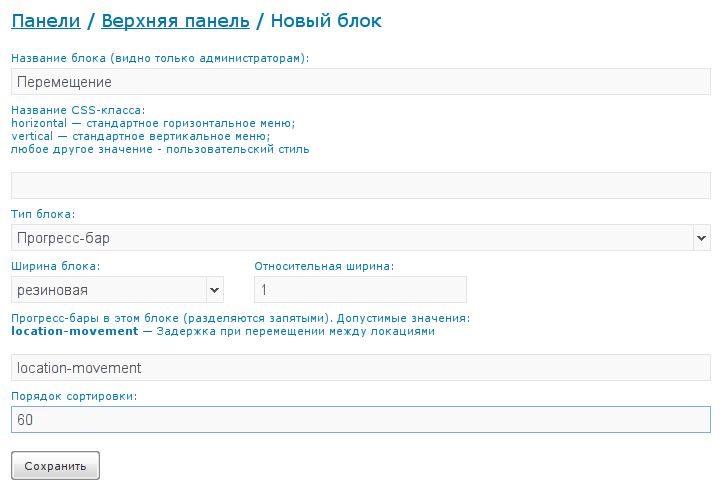
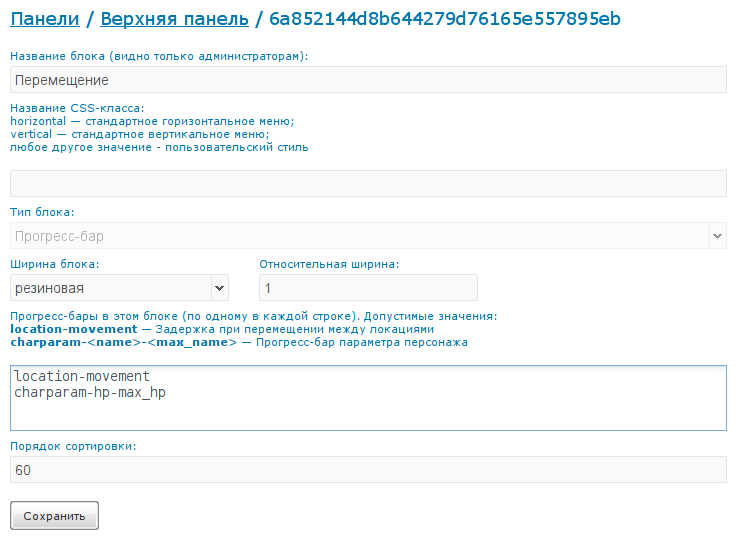
Documentation

diff --git a/mg/templates/constructor/docs/ru/dynamic.html b/mg/templates/constructor/docs/ru/dynamic.html
@@ -1,0 +1,118 @@
+<!-- doc.title Параметры, изменяющиеся со временем -->
+<!-- doc.parent parameters -->
+<!-- doc.keywords параметры персонажа, параметры в онлайн-игре, изменяюжиеся со временем -->
+<!-- doc.description Статья об устройве параметров объектов, изменяющихся со временем, в конструкторе онлайн-игр MMO Constructor -->
+
+<h1>Параметры, изменяющиеся со временем</h1>
+
+<p>Зачастую у администратора игры возникает необходимость задать значение параметра, которое не статично, а изменяется с течением времени. Например, это может быть восстановление жизни персонажа, уменьшение запаса дыхательной смеси под водой, траектория движения предмета и т.д.</p>
+
+<p>Значение такого параметра меняется очень часто, и если при каждом изменении сохранять его в базу данных, то база будет сильно перегружена. Если при каждом изменении передавать его по сети пользователям в клиенты, то сильно перегружена будет сеть.</p>
+
+<p>Решение проблемы заключается в том, что администратор игры задаёт значение параметра в виде функции от времени t. И именно в виде функции это значение сохраняется в базе данных и пересылается клиентам. Такой подход позволяет вычислить точное значение параметра в любой момент времени без дорогостоящих обращений к дискам и сети.</p>
+
+<p>Для того, чтобы было возможно вычислять взаимно согласованные значения как на сервере, так и на клиенте, они должны иметь <a href="/time">синхронизированные счётчики времени</a>.</p>
+
+<h1>Задание значений параметрам</h1>
+
+<p>Для того, чтобы <a href="/doc/parameters">параметр объекта</a> (персонажа, локации, предмета) начал изменяться со временем, необходимо либо задать его значение через административный интерфейс (где это уместно), либо воспользоваться одной из двух функций <a href="/doc/quest">квестового MMOScript</a> &mdash; "set dynamic" или "slide", либо вручную задать значения в клиенте.</p>
+
+<ul>
+    <li>Динамические координаты <a href="/doc/location-objects">объектов на локациях</a> могут задаваться либо через административный интерфейс, либо чеоез JavaScript API на клиенте;</li>
+    <li><a href="/doc/parameters">параметры персонажей, локаций и типов предметов</a> могут задаваться либо через административный интерфейс, либо через квестовый движок;</li>
+    <li><a href="/doc/design/progress">прогресс-бары</a> автоматически подгружают динамические значения из соответствующих параметров персонажа;</li>
+    <li><a href="#">динамические блоки</a> также автоматически используют динамические параметры персонажа.</li>
+</ul>
+
+<h1>Поддержка параметров, изменяющихся со временем, в движке квестов и триггеров</h1>
+
+<p>Инструкция "slide" квестового движка предоставляет простой способ задать плавное изменение параметра от одного значения до другого:</p>
+<pre class="doc-code-sample">
+slide <strong>объект</strong>.<strong>параметр</strong> [from=<strong>выражение</strong>] to=<strong>выражение</strong> time=<strong>выражение</strong> [round=<strong>выражение</strong>]
+</pre>
+<p>Эта команда задаёт динамическое значение параметру, который будет в течение time секунд плавно линейно изменяться от значения from до значения to. Если значение from не задано, то в качестве начального значения будет взято текущее значение параметра.</p>
+<p>Если аргумент round не задан, то значение будет изменяться плавно. Если задан, то каждое мгновенное значение будет округляться до кратного round. Например, если задать round=1, то значения параметра будут изменяться ступеньками по целым числам.</p>
+<p>Например, чтобы запустить восстановление жизни персонажа по 3 единицы в секунду ступеньками по 0.1 HP:</p>
+<pre class="doc-code-sample">
+slide char.p_hp from=char.p_hp to=char.p_max_hp time=(char.p_max_hp - char.p_hp) / 3 round=0.1
+</pre>
+
+<p>Более гибкий доступ к заданию параметра, изменяющегося со временем, предоставляет инструкция "set dynamic":</p>
+<pre class="doc-code-sample">
+set dynamic <strong>объект</strong>.<strong>параметр</strong> = <strong>выражение</strong> [till=<strong>выражение</strong>]
+</pre>
+<p>Выражение в этом случае должно содержать переменную t, которая представляет собой счётчик времени, засинхронизированный между клиентом и сервером. Подробная информация о параметрах, изменяющихся со временем, приведена в <a href="/dynamic">одноименном разделе</a>.</p>
+<p>Технически в момент выполнения этой операции происходит <a href="/doc/script#conversions">частичное вычисление</a> значения выражения.</p>
+<p>Чтобы использовать в выражении значение счётчика времени на момент выполнения этой команды, используйте переменную T (большое).</p>
+<p>Пример:</p>
+<pre class="doc-code-sample">
+set dynamic char.p_xp = 10 + sin(t - T) * 5
+</pre>
+<p>У команды есть необязательный аргумент till. Если он не задан, то динамическое значение параметра будет работать неограниченно долго. Если его задать, то выражение остановится на указанном моменте времени. То есть, если t &gt; till, то при вычислении значения выражения вместо t будет подставляться till.</p>
+
+<h1>Поддержка параметров, изменяющихся со временем, на стороне JavaScript-клиента</h1>
+
+<p>Все параметры персонажа, которым управляет игрок, которые ему видимы, и которые сохраняются в базе данных, доставляются в клиент. Этот процесс описан в разделе "<a href="/character-delivery">Доставка параметров персонажей в клиент</a>". Вычисляемые параметры в клиент не доставляются и в браузере недоступны.</p>
+
+<p>В клиент доставляются как статические значения параметров, так и изменяемые со временем. Если вы хотите отображать значения параметров в клиенте, то имеет смысл подписаться на событие "параметры изменились" и получать уведомления обо всех изменившихся значениях. Если параметр динамический, то событие будет срабатывать многократно, доставляя актуальные значения в обработчик.</p>
+
+<p>Для того, чтобы обрабатывать события, подключите свой обработчик на JavaScript:</p>
+<pre class="doc-code-sample">
+Characters.onParamChange = function (changes) {
+    if (changes.hasOwnProperty('hp') || changes.hasOwnProperty('max_hp')) {
+        var hp = Characters.myParam('hp');
+        var max_hp = Characters.myParam('max_hp');
+        // здесь можно обновить на экране текущие значения hp и max_hp.
+    }
+};
+</pre>
+
+<p>Функция-обработчик получает в качестве параметра объект "changes", каждое поле которого &mdash; это код параметра и его значение. Кроме того, в любой момент можно обратиться к функции Characters.myParam(), передав ей код параметра. Она возвращает его текущее мгновенное значение.</p>
+
+<p>Устанавливать код обработчика удобно через интерфейс настройки <a href="/doc/design/gameinterface#javascript">произвольных скриптов</a> игрового интерфейса.</p>
+
+<a name="DynamicValue"></a>
+<h1>Класс DynamicValue</h1>
+
+<p>JavaScript API предоставляет удобный класс для хранения значения параметра (как статического, так и динамического). Это класс DynamicValue. Чтобы создать экземпляр, необходимо передать конструктору либо статическое значение, либо формулу для значения, изменяемого с течением времени:</p>
+<pre class="doc-code-sample">
+var st = DynamicValue(123);
+var dyn = DynamicValue(['+', 2, ['func', 'call', 'sin', ['glob', 't']]]); // 2 + sin(t)
+</pre>
+
+<p>Если значение должно изменяться не вечно, а до какого-то фиксированного момента времени, то необходимо вызвать метод setTill и задать момент времени, когда надо остановиться. Например, через 5 секунд:</p>
+<pre class="doc-code-sample">
+dyn.setTill(TimeSync.getTime() + 5);
+</pre>
+
+<p>После того, как объект создан, можно в любой момент получить его значение на указанный момент времени:</p>
+<pre class="doc-code-sample">
+var stVal = st.evaluate(t);
+var dynVal = dyn.evaluate(t);
+</pre>
+
+<p>Если у динамического значения задано время окончания действия, то по прошествии этого времени хранить формулу и вычислять её каждый раз необходимости нет. Можно её "забыть" и считать это значение статическим. Необходимость такого метода вызвана тем, что как только значение стало статическим, можно перестать его регулярно вычислять, например, для обновления чего-либо на экране. Чтобы попросить DynamicValue забыть формулу, если после момента t она уже не действует, необходимо вызвать метод forget:</p>
+<pre class="doc-code-sample">
+dyn.forget(t);
+</pre>
+
+<p>Либо можно совместить получение значения на момент времени t и забывание формулы, если её действие кончилось раньше этого t:</p>
+<pre class="doc-code-sample">
+var dynVal = dyn.evaluateAndForget(t);
+</pre>
+
+<a name="blocks"></a>
+<h1>Динамические блоки интерфейса</h1>
+
+<p>Система имеет возможность автоматически обновлять содержимое DOM-элементов в игровом интерфейсе при изменении параметров персонажа, доставляемых в клиент. Для этого предназначен механизм динамических блоков. Его настройки осуществляются через меню "Интерфейс игры / Динамические блоки":</p>
+
+<img class="doc-screenshot" src="/st/tutorial/dynblocks-1.png" alt="" />
+
+<p>При нажатии на ссылки "Новый динамический блок" или "редактировать" открывается диалог редактирования параметров динамического блока:</p>
+
+<img class="doc-screenshot" src="/st/tutorial/dynblocks-2.png" alt="" />
+
+<ul>
+    <li>CSS-селектор &mdash; это CSS-selector, который определяет элементы, в которые необходимо записать контент. Если таких элементов окажется несколько, то обновлены будут все. Поддерживаются селекторы, начинающиеся с точки (имена классов) и с решётки (идентификаторы элементов);</li>
+    <li>Содержимое блока &mdash; это текстовое выражение MMOScript, которое вычисляется на стороне клиента. Ему доступен объект "char", представляющий текущего персонажа. У персонажа доступны не все поля, а только id (идентификатор персонажа), name (его имя) и параметры p_..., которые доставляются в клиент (т.е. только параметры, хранимые в базе данных, видимые владельцу).</li>
+</ul>

diff --git a/mg/templates/constructor/docs/ru/location-objects.html b/mg/templates/constructor/docs/ru/location-objects.html
@@ -1,0 +1,92 @@
+<!-- doc.title Объекты на локациях -->
+<!-- doc.parent locations -->
+<!-- doc.keywords локации, объекты, онлайн-игры -->
+<!-- doc.description Описание подсистемы объектов на локациях в конструкторе онлайн-игр -->
+
+<h1>Объекты на локациях</h1>
+
+<p>Зачастую для отображения локации одной статической картинки недостаточно. Администратору может понадобиться показывать поверх локации какие-либо дополнительные картинки-объекты. Объекты должны быть кликабельными, они должны иметь возможность показываться или не показываться. Может потребоваться изменять их местоположение на экране.</p>
+
+<p>Для реализации этих возможностей предназначен <a href="/doc/modules">системный модуль</a> "Статические объекты на локациях". После его включения в настройках локаций появится дополнительный способ визуализации: "HTML5 Canvas": <img class="doc-screenshot" src="/st/tutorial/location-objects-1.png" alt="" /></p>
+
+<h1>Настройка статических объектов</h1>
+
+<p>При выборе для локации типа визуализации "Статические объекты на локациях" в настройках локации появится новая вкладка &mdash; Объекты: <img class="doc-screenshot" src="/st/tutorial/location-objects-2.png" alt="" /></p>
+
+<p>При помощи кнопок "Загрузить изображение" и "Добавить изображение из хранилища" можно создавать новые объекты и помещать их на локацию. Объекты можно перетаскивать при помощи мыши. При двойном щелчке на объекте он отправляется на задний план. У выделенного объекта можно при помощи мыши перетаскивать вершины активной зоны (на которой будут восприниматься нажатия мыши и при наведении на которую будут показываться всплывающие подсказки). Чтобы добавить новую вершину, необходимо щёлкнуть на ребре многоугольника. Чтобы удалить вершину, необходимо выделить её мышью, а затем нажать кнопку Delete. Объекты также удаляются при помощи кнопки Delete.</p>
+
+<p>При выборе объекта внизу раскрывается панель с его настройками: <img class="doc-screenshot" src="/st/tutorial/location-objects-3.png" alt="" /></p>
+
+<ul>
+    <li>Идентификатор объекта &mdash; строка, начинающаяся с "u_". Если объекту назначить идентификатор, то в дальнейшем можно изменять его видимости и положение динамически при помощи JavaScript API;</li>
+    <li>центр X и центр Y &mdash; координаты центра изображения. Чтобы изменить эти параметры, необходимо подвинуть объект при помощи мыши;</li>
+    <li>скриптовое положение объекта &mdash; возможность вычислять положение объекта при помощи скриптового выражения (см. следующий раздел);</li>
+    <li>вершины активной зоны &mdash; координаты многоугольника, определяющего активную зону объекта. Координаты заданы относительно центра объекта;</li>
+    <li>условие видимости &mdash; <a href="/doc/script">скриптовое выражение</a>, определяющее видимость объекта. 0 или меньше &mdash; объект невидим (и недоступен для кликов мышью), 1 или больше &mdash; объект полностью видим; если видимость больше 0, но меньше 1, то объект показывается полупрозрачным, причём чем ближе значение к 0, тем он более прозрачный. Выражение может использовать параметр t, и тогда видимость объекта будет меняться с течением времени. Подробности &mdash; в статье "<a href="/doc/dynamic">Параметры, изменяющиеся со временем</a>";</li>
+    <li>действие при клике &mdash; настройка поведения игры при клике на активную зону объекта;</li>
+    <li>подсказка при наведении мыши &mdash; всплывает при наведении мыши на активную зону.</li>
+</ul>
+
+<h1>Скриптовое положение объекта</h1>
+
+<p>Если галочка "скриптовое положение объекта" снята, то объект появится на локации в том месте, в котором он был размещён в редакторе. Если галочку установить, то откроются дополнительные настройки, при помощи которых можно задать <a href="/doc/script">скриптовое выражение</a> для расчёта координат: <img class="doc-screenshot" src="/st/tutorial/location-objects-4.png" alt="" /></p>
+
+<p>Результатом этого выражения должен быть вектор vec3, с тремя координатами: (X, zIndex, Y). Первая и последняя координаты определяют положение объекта на локации, а средняя &mdash; порядок объекта в стопке. Объекты с большим zIndex находятся ближе к наблюдателю.</p> 
+
+<p>Выражение может использовать параметр t, и тогда видимость объекта будет меняться с течением времени. Подробности &mdash; в статье "<a href="/doc/dynamic">Параметры, изменяющиеся со временем</a>".</p>
+
+<h1>Управление объектами через JavaScript</h1>
+
+<p>Администратор игры имеет возможность управлять объектами на локации вручную при помощи JavaScript API. Чтобы получить ссылку на объект по его идентификатору, воспользуйтесь функцией LocObjects.getObject:</p>
+
+<pre class="doc-code-sample">
+var obj = Objects.getObject('u_test');
+</pre>
+
+<p>Каждый объект может иметь параметры, каждый из которых отвечает за какие-то аспекты визуализации или поведения объекта. Сейчас реализованы два параметра:</ul>
+<li>1 &mdash; положение объекта (вектор);</li>
+<li>2 &mdash; видимость объекта (число от 0 до 1).</li>
+</ul></p>
+
+<p>Перед тем, как изменять значение параметра, необходимо получить ссылку на него:</p>
+<pre class="doc-code-sample">
+var paramPos = obj.getParam(1);
+var paramVis = obj.getParam(2);
+</pre>
+
+<p>Чтобы установить новое значение, необходимо воспользоваться методом setValue:</p>
+<pre class="doc-code-sample">
+paramPos.setValue(new Vec3(100, 5, 80));
+paramVis.setValue(0.8);
+</pre>
+
+<p>Чтобы заставить параметр плавно измениться до желаемого значения, воспользуйтесь методом slideTo:</p>
+<pre class="doc-code-sample">
+paramVis.slideTo(0, 2);
+</pre>
+<p>Приведённая выше команда заставит объект плавно за 2 секунды стать невидимым.</p>
+
+<p>Кроме того, администратор имеет возможность задать более сложное выражение для изменения параметра, вручную создав экземпляр <a href="/doc/dynamic#DynamicValue">DynamicValue</a> и передав ему желаемое выражение:</p>
+<pre class="doc-code-sample">
+paramPos.setValue(new DynamicValue([
+    '+',
+    new Vec3(100, 0, 0),
+    [
+        '*',
+        [
+            'call',
+            'sin',
+            ['glob', 't']
+        ],
+        new Vec3(30, 0, 0)
+    ]
+]));
+</pre>
+
+<h1>Дополнительно</h1>
+
+<ul>
+    <li><a href="/doc/locations">Система локаций</a></li>
+    <li><a href="/doc/script">Скриптовый движок</a></li>
+    <li><a href="/doc/dynamic">Параметры, изменяющиеся со временем</a></li>
+</ul>

diff --git a/mg/templates/constructor/docs/ru/quests.html b/mg/templates/constructor/docs/ru/quests.html
@@ -459,6 +459,31 @@ set char.p_xp = char.p_xp + 10
 set quest.p_state = "go_somewhere"
 </pre>
 
+<h2>Плавное изменение параметра</h2>
+<pre class="doc-code-sample">
+slide <strong>объект</strong>.<strong>параметр</strong> [from=<strong>выражение</strong>] to=<strong>выражение</strong> time=<strong>выражение</strong> [round=<strong>выражение</strong>]
+</pre>
+<p>Эта команда задаёт <a href="/doc/dynamic">динамическое значение</a> параметру, который будет в течение time секунд плавно линейно изменяться от значения from до значения to. Если значение from не задано, то в качестве начального значения будет взято текущее значение параметра.</p>
+<p>Если аргумент round не задан, то значение будет изменяться плавно. Если задан, то каждое мгновенное значение будет округляться до кратного round. Например, если задать round=1, то значения параметра будут изменяться ступеньками по целым числам.</p>
+<p>Например, чтобы запустить восстановление жизни персонажа по 3 единицы в секунду ступеньками по 0.1 HP:</p>
+<pre class="doc-code-sample">
+slide char.p_hp from=char.p_hp to=char.p_max_hp time=(char.p_max_hp - char.p_hp) / 3 round=0.1
+</pre>
+
+<h2>Установка динамического значения параметра</h2>
+<pre class="doc-code-sample">
+set dynamic <strong>объект</strong>.<strong>параметр</strong> = <strong>выражение</strong> [till=<strong>выражение</strong>]
+</pre>
+<p>Эта команда позволяет установить значение параметра, изменяющееся со временем. у объектов, которые это позволяют.</p>
+<p>Выражение в этом случае должно содержать переменную t, которая представляет собой счётчик времени, засинхронизированный между клиентом и сервером. Подробная информация о параметрах, изменяющихся со временем, приведена в <a href="/dynamic">одноименном разделе</a>.</p>
+<p>Технически в момент выполнения этой операции происходит <a href="/doc/script#conversions">частичное вычисление</a> значения выражения.</p>
+<p>Чтобы использовать в выражении значение счётчика времени на момент выполнения этой команды, используйте переменную T (большое).</p>
+<p>Пример:</p>
+<pre class="doc-code-sample">
+set dynamic char.p_xp = 10 + sin(t - T) * 5
+</pre>
+<p>У команды есть необязательный аргумент till. Если он не задан, то динамическое значение параметра будет работать неограниченно долго. Если его задать, то выражение остановится на указанном моменте времени. То есть, если t &gt; till, то при вычислении значения выражения вместо t будет подставляться till.</p>
+
 <h2>Успешное завершение квеста</h2>
 <pre class="doc-code-sample">
 finish

diff --git a/mg/templates/constructor/docs/ru/locations.html b/mg/templates/constructor/docs/ru/locations.html
@@ -28,6 +28,12 @@
 <p>При выборе этого режима вам необходимо сразу загрузить одно из изображений. Чтобы добавить ещё изображения, воспользуйтесь полем "Добавить картинку локации с другим размером": <img class="doc-screenshot" src="/st/tutorial/locations-7.png" alt="" /></p>
 <p>После загрузки всех локаций в верхнем меню появятся ссылки на редактирование карт. Для каждого изображения карта будет своей. Использование редактора карт осуществляет так же, как и для режима отображения с одной статической картинкой.</p>
 
+<a name="canvas"></a>
+<h2>Тип визуализации HTML5 Canvas</h2>
+<p>Тип визуализации "HTML5 Canvas" позволяет использовать для отрисовки возможности HTML5. Этот режим доступен при <a href="/doc/modules">подключении системного модуля</a> "Статические объекты на локациях".</p>
+<p>При выборе этого режима, необходимо задать статическую фоновую картинку (так же, как в режиме "Статическая картинка"), задать настройки растягивания изображения, а затем перейти на вкладку "Объекты" для добавления статических объектов. Статические объекты &mdash; это изображения, которые накладываются на фон. Их положение на экране и условия видимости настраиваются администратором. Читайте подробности на странице "<a href="/doc/location-objects">Объекты на локациях</a>".</p>
+<p>Кроме размещения статических объектов, этот режим может использоваться администратором для ручного создания объектов через JavaScript API.</p>
+
 <a name="transitions"></a>
 <h1>Как задать свойства переходов</h1>
 <p>После того, как вы определите какие-либо переходы между локациями (либо при помощи стрелочек влево-вправо, либо при помощи редактора карты изображения), у вас появится возможность задать этим переходам дополнительные параметры. Для этого зайдите в редактор локации, и вы увидите внизу новые поля формы: <img class="doc-screenshot" src="/st/tutorial/locations-4.png?1" alt="" /></p>
@@ -70,4 +76,5 @@
 <ul>
 	<li><a href="/doc/startloc">Стартовые локации персонажей</a></li>
 	<li><a href="/doc/script">Скриптовый движок</a></li>
+        <li><a href="/doc/location-objects">Объекты на локациях</a></li>
 </ul>

diff --git a/mg/templates/constructor/docs/ru/script.html b/mg/templates/constructor/docs/ru/script.html
@@ -399,6 +399,7 @@
     </li>
 </ul>
 
+<a name="conversions"></a>
 <h1>Преобразования скриптовых выражений</h1>
 
 <p>Приведённая ниже диаграмма описывает основные преобразования, которые производятся над выражениями MMOScript:</p>
@@ -410,6 +411,8 @@
 <p>Каждый раз, когда администратор просматривает настройки игры, синтаксическое дерево загружается из базы данных и подвергается обратной процедуре &mdash; unparsing. На выходе анпарсера получается текстовое выражение, соответствующее синтаксическому дереву. Такой подход позволит в будущем реализовать в конструкторе альтернативные способы ввода выражений, например при помощи рисования блок-схем.</p>
 
 <p>Во время работы игры синтаксические деревья выражений загружаются из базы данных и вычисляются &mdash; либо на сервере, либо в клиенте. Для того, чтобы вычислить значение выражения, интерпретатор подставляет в него значения глобальных переменных и выполняет вычисления в соответствии с деревом. Таким способом выражения вычисляются в подавляющем большинстве случаев.</p>
+
+<h2>Частичное вычисление выражений</h2>
 
 <p>Когда администратор игры задаёт значения <a href="/doc/dynamic">параметров, изменяемых со временем</a>, в выражениях участвует глобальная переменная "t", которую при вычислениях на стороне сервера подставлять не следует. В этом случае используется частичное вычисление значения. При этом в дерево подставляются значения всех параметров, кроме t, и все константные ветви дерева сворачиваются в соответствующие им значения. Все ветви, зависящие от t, остаются нетронутыми. Такое частичное синтаксическое дерево затем передаётся на клиент или сохраняется в базе данных, и в дальнейшем для определения моментального значения параметра производится ещё одно, на этот раз окончательное вычисление с подставленным значением t.</p>
 

diff --git a/mg/templates/constructor/docs/ru/design/progress.html b/mg/templates/constructor/docs/ru/design/progress.html
@@ -7,10 +7,17 @@
 
 <p>Администратор игры может поместить в игровой интерфейс различные прогресс-бары, которые будут отображать игровые параметры.</p>
 
-<p>Самый простой способ поместить в игровой интерфейс прогресс-бар &mdash; это выбрать в редакторе панелей тип блока "Прогресс-бар" и заполнить поле "Прогресс-бары" идентификаторами прогресс-баров, которые вы хотите отобразить: <img class="doc-screenshot" src="/st/tutorial/progress-1.png" alt="" /></p>
+<p>Самый простой способ поместить в игровой интерфейс прогресс-бар &mdash; это выбрать в редакторе панелей тип блока "Прогресс-бар" и заполнить поле "Прогресс-бары" идентификаторами прогресс-баров, которые вы хотите отобразить: <img class="doc-screenshot" src="/st/tutorial/progress-1.png?1" alt="" /></p>
 
 <p>Если указать несколько идентификаторов прогресс-баров через запятую: <img class="doc-screenshot" src="/st/tutorial/progress-2.png" alt="" /></p>
 <p>то в одном блоке будет размещено несколько прогресс-баров один рядом с другим: <img class="doc-screenshot" src="/st/tutorial/progress-3.png" alt="" /></p></p>
+
+<h1>Виды прогресс-баров</h1>
+
+<p>В зависимости от набора подключенных модулей, могут быть доступны различные типы прогресс-баров. Их описания приведены над формой списка:<ul>
+<li><strong>location-movement</strong> &mdash; индикатор задержки до перехода в следующую локацию;</li>
+<li><strong>charparam-&lt;name&gt;-&lt;max_name&gt;</strong> &mdash; полоса, обновляемая автоматически при изменении параметров персонажа "name" и "max_name". Длина прогресс-бара будет определяться отношением name / max_name. Например, если у персонажа есть параметры, отвечающие за ману (mana и max_mana), то прогресс-бар "charparam-mana-max_mana" будет отображать текущий запас маны. Информация об использовании динамических параметров приведена на странице "<a href="/doc/dynamic">Параметры, изменяющиеся со временем</a>".</li>
+</ul>
 
 <h1>Скриптовое управление прогресс-барами</h1>
 

diff --git a/mg/templates/constructor/docs/ru/time.html b/mg/templates/constructor/docs/ru/time.html
@@ -1,0 +1,29 @@
+<!-- doc.title Работа со временем в MMO Constructor -->
+<!-- doc.parent index -->
+<!-- doc.keywords время, синхронизация -->
+<!-- doc.description Статья о доступе к счетчику времени в конструкторе онлайн-игр MMO Constructor -->
+
+<h1>Работа со временем</h1>
+
+<p>В играх, реализуемых в конструкторе, доступен счётчик реального времени, значение которого &mdash; дробное число секунд, прошедших с 1 января 1970 года по Гринвичу (так называемое UNIX time).</p>
+
+<p>Доступ к этому счётчику времени осуществляется как через MMOScript, так и через JavaScript API на клиенте. Кроме того, <a href="/doc/design/progress">прогресс-бар перемещения между локациями</a> также использует синхронизированное время.</p>
+
+<h1>Синхронизация времени</h1>
+
+<p>MMO Constructor синхронизирует время на клиенте и сервере таким образом, чтобы они показывали одинаковое время. В процессе игры часы постоянно синхронизируются, чтобы нивелировать возможные расхождения.</p>
+
+<h1>Доступ к счётчику времени через MMOScript</h1>
+
+<p>В выражениях MMOScript как на сервере, так и на клиенте доступны переменные t и T, значение которых равно текущему времени. Различие между t и T заключается в том, что при <a href="/doc/script#conversions">частичном вычислении</a> значений, вместо T подставляется текущее время на момент частичного вычисления, а t остаётся свободной переменной.</p>
+
+<p>Обратите внимание, что на клиенте до первой синхронизации времени значения t и T не определены (none). Первая синхронизация происходит достаточно быстро после запуска игры, однако это время ненулевое.</p>
+
+<h1>Доступ к счётчику времени через JavaScript API</h1>
+
+<p>На стороне клиента можно получить текущее синхронизированное время через функцию TimeSync.getTime():</p>
+<pre class="doc-code-sample">
+var time = TimeSync.getTime();
+</pre>
+
+<p>До первой синхронизации времени getTime() возвращает undefined.</p>

diff --git a/mg/templates/constructor/docs/ru/design/gameinterface.html b/mg/templates/constructor/docs/ru/design/gameinterface.html
@@ -137,6 +137,15 @@
 
 <p>Чтобы конструктор мог правильно рассчитать ширину горизонтального (или высоту вертикального) блока кнопок, ему необходимо знать размеры кнопок и границ блока. Подробнее см. раздел <a href="/doc/design/gameinterface-structure">Структура игрового интерфейса</a>.</p>
 
+<a name="javascript"></a>
+<h2>Выполнение произвольного JavaScript</h2>
+
+<p>Администратор игры имеет возможность задать произвольные скрипты, которые будут выполнены в браузере до и после инициализации игрового интерфейса. Эти настройки доступны через меню "Интерфейс игры / Скрипты":</p>
+
+<img class="doc-screenshot" src="/st/tutorial/gameinterface-js.png" alt="" />
+
+<p>Первый скрипт выполняется в момент, когда HTML-документ полностью загружен и подгружены все javascript-модули, используемые игрой. То есть, в этот момент уже можно обращаться к JavaScript API игры. Затем происходит инициализация всех компонентов игрового интерфейса (создание и рендеринг ExtJS-объектов, инициализация параметров персонажа и т.д.) И в последнюю очередь выполняется второй скрипт, где уже полностью доступен весь игровой интерфейс.</p>
+
 <h2>Дополнительная информация</h2>
 <ul>
 	<li><a href="/doc/design/internal">Оформление внутренних страниц игрового фрейма</a></li>

diff --git a/mg/templates/constructor/docs/ru/character-delivery.html b/mg/templates/constructor/docs/ru/character-delivery.html
@@ -14,7 +14,7 @@
 
 <h1>Доставка параметров персонажа, управляемого игроком</h1>
 
-<p>Каждый раз, когда изменяется параметр персонажа, видимый его владельцу (см. раздел <a href="/doc/parameters">Параметры</a>), в клиент отправляется его новое значение. В браузере доступен глобальный объект Characters.myparams, который содержит имена параметров и их текущие значения в формате <a href="/doc/js-script#DynamicValue">DynamicValue</a>:</p>
+<p>Каждый раз, когда изменяется сохраняемый в базе данных параметр персонажа, видимый его владельцу (см. раздел <a href="/doc/parameters">Параметры</a>), в клиент отправляется его новое значение. В браузере доступен глобальный объект Characters.myparams, который содержит имена доставленных параметров и их текущие значения в формате <a href="/doc/dynamic#DynamicValue">DynamicValue</a>:</p>
 <pre class="doc-code-sample">
 Characters.myparams = {
     hp: DynamicValue(...),
@@ -23,6 +23,8 @@ Characters.myparams = {
     ...
 };
 </pre>
+
+<p>Вычисляемые параметры в клиент не доставляются и в браузере недоступны.</p>
 
 <p>Текущие мгновенные значения параметров можно получить при помощи функции Characters.myParam:</p>
 <pre class="doc-code-sample">

diff --git a/mg/templates/constructor/docs/ru/design/gameinterface-structure.html b/mg/templates/constructor/docs/ru/design/gameinterface-structure.html
@@ -55,3 +55,8 @@
 
 <p>Когда вы подключаете к вашей игре какой-либо новый модуль (к примеру, форум), то он может принести за собой новую кнопку в игровой интерфейс (открывающую этот самый форум). Эти новые кнопки появляются в нижней части страницы, и вы можете определить, в какой блок кнопок их поместить. Подробнее о модульной системе конструктора читайте в разделе <a href="/doc/modules">Модули конструктора</a>.</p>
 
+<h2>Динамические блоки</h2>
+
+<p>Администратор игры имеет возможность создавать в интерфейсе игры блоки, содержимое которых заполняется автоматически по программе, заданной <a href="/doc/script">текстовым скриптом</a>. Для этого можно либо в шаблоне blocks.html, либо через меню "Интерфейс игры / Панели интерфейса" создать блок и задать ему определённый CSS-класс, например "test-class".</p>
+
+<p>Затем необходимо настроить <a href="/doc/dynamic#blocks">динамический блок интерфейса</a>, который будет искать этот элемент (для примера выше подойдёт селектор ".test-class") и заменять его содержимое вычисленным значением.</p>

diff --git a/static/js/locobjects-editor.js b/static/js/locobjects-editor.js
@@ -113,7 +113,7 @@ VisualObject.prototype.render = function(form) {
                     id: 'elem_position-' + this.id,
                     items: { 
                         id: 'form-field-position-' + this.id,
-                        fieldLabel: gt.gettext('Object position expression') + ' <img class="inline-icon" src="/st/icons/script.gif" alt="" />',
+                        fieldLabel: gt.gettext('Object position expression') + ' <img class="inline-icon" src="/st/icons/dyn-script.gif" alt="" />',
                         name: 'position-' + this.id,
                         value: this.position,
                         xtype: 'textfield',
@@ -142,7 +142,7 @@ VisualObject.prototype.render = function(form) {
                     id: 'elem_visible-' + this.id,
                     items: { 
                         id: 'form-field-visible-' + this.id,
-                        fieldLabel: gt.gettext('Visibility condition') + ' <img class="inline-icon" src="/st/icons/script.gif" alt="" />',
+                        fieldLabel: gt.gettext('Visibility condition') + ' <img class="inline-icon" src="/st/icons/dyn-script.gif" alt="" />',
                         name: 'visible-' + this.id,
                         value: this.visible,
                         xtype: 'textfield',

diff --git a/mg/templates/constructor/docs/ru/parameters.html b/mg/templates/constructor/docs/ru/parameters.html
@@ -98,6 +98,7 @@
 
 <h1>Дополнительно</h1>
 <ul>
+        <li><a href="/doc/dynamic">Параметры, изменяющиеся со временем</a></li>
 	<li><a href="/doc/library">Описание настройки библиотеки</a></li>
 	<li><a href="/doc/design/gameinterface">Настройка оформления игры</a></li>
 	<li><a href="/doc/design/character-info">Вёрстка страницы информации персонажа</a></li>
